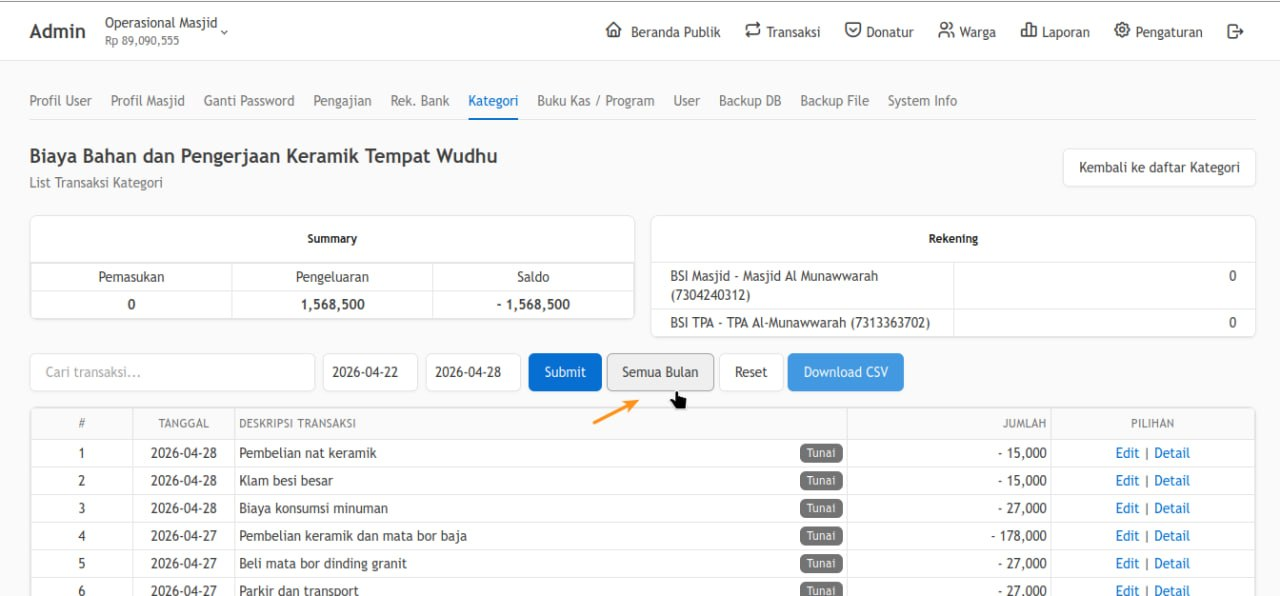
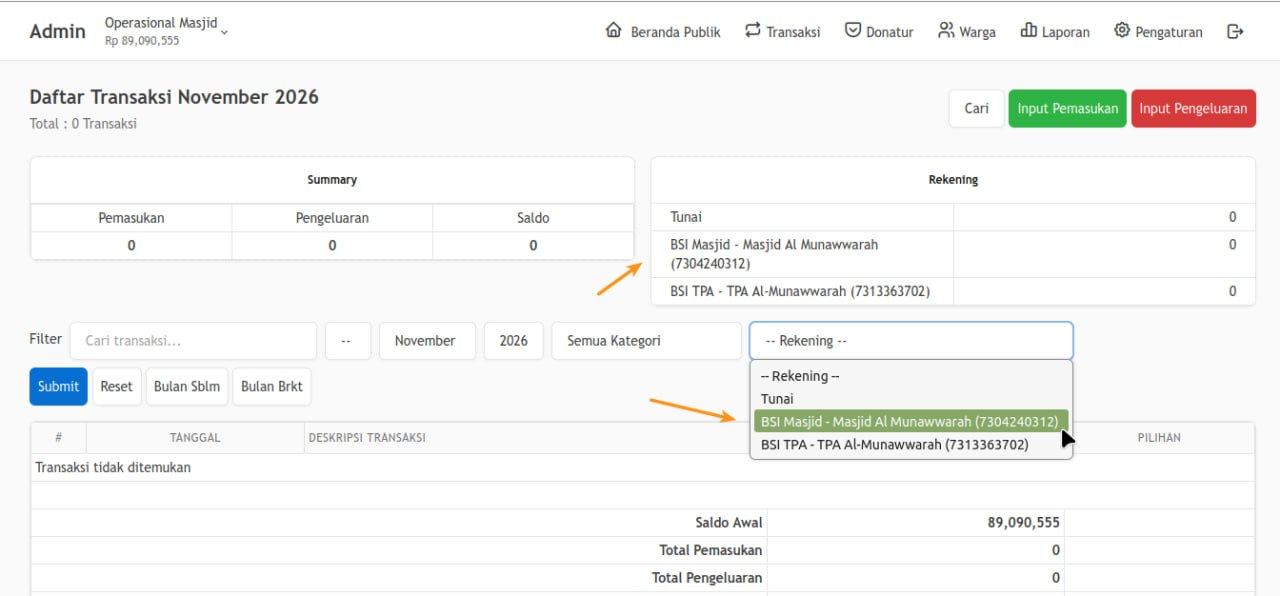
Add screenshot for bank account differentiation feature

diff --git a/content/id/blog/2026-11-01-monthly-news-2610.md b/content/id/blog/2026-11-01-monthly-news-2610.md
@@ -66,9 +66,13 @@ Berikut beberapa progress yang kami kerjakan pada bulan Oktober 2026.
 
 Berikut ini beberapa tampilan setelah pembaruan di bulan Oktober 2026.
 
+**Pembeda Rekening Bank pada Pilihan Rekening**
+
+![Pembeda rekening bank pada pilihan rekening](images/blog/2026-11-01-monthly-news-2610_05.jpg "Pembeda rekening bank pada pilihan rekening")
+
 **Filter Semua Bulan pada List Transaksi Kategori**
 
-![Filter Semua Bulan pada list transaksi kategori](images/blog/2026-11-01-monthly-news-2610_05.jpg "Filter Semua Bulan pada list transaksi kategori")
+![Filter Semua Bulan pada list transaksi kategori](images/blog/2026-11-01-monthly-news-2610_06.jpg "Filter Semua Bulan pada list transaksi kategori")
 
 **Daftar Transaksi — Sebelum Pembaruan**
 
